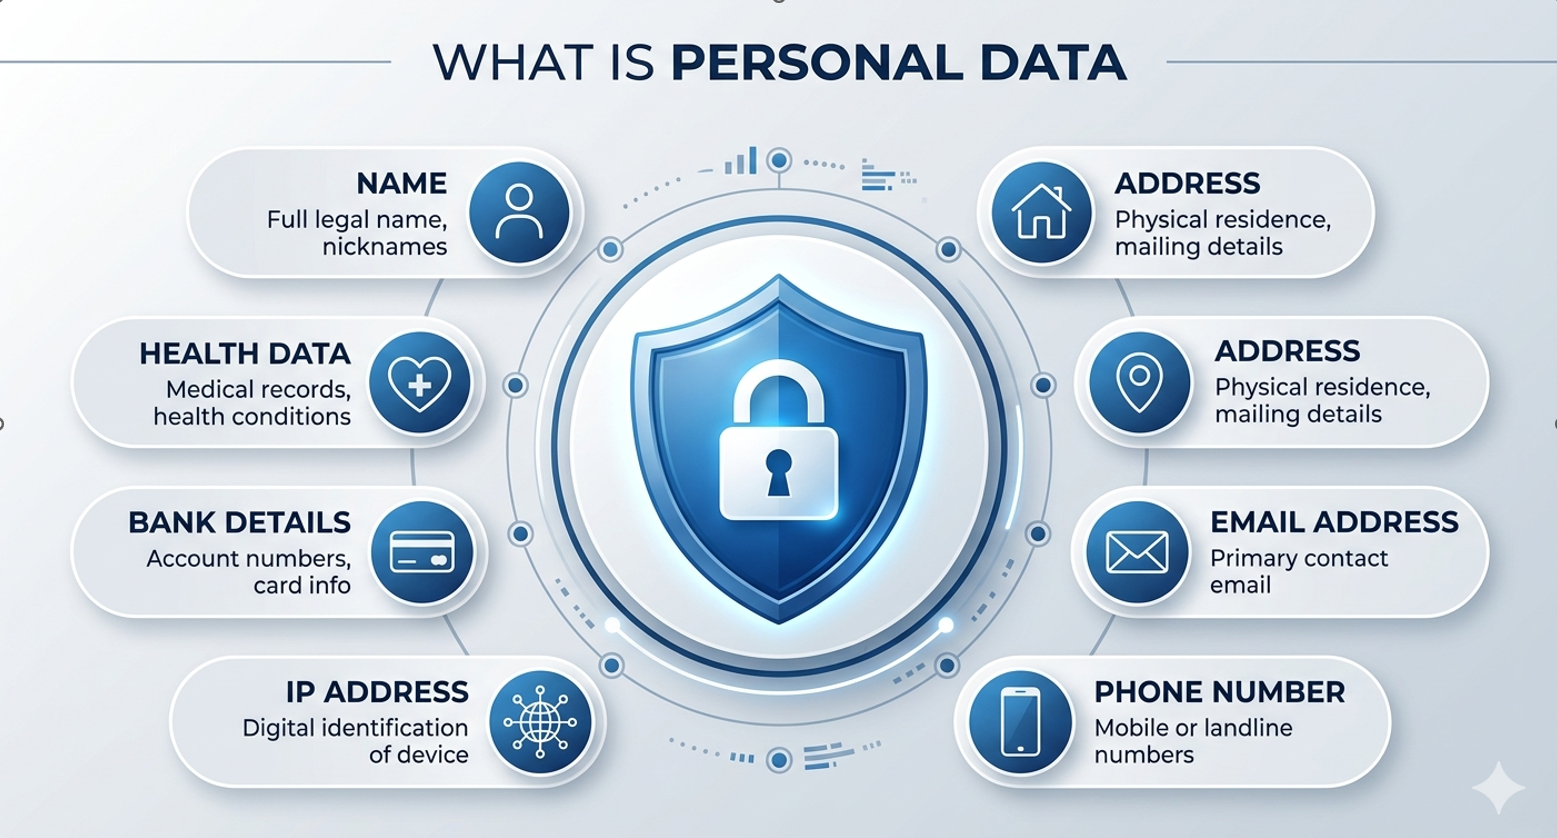
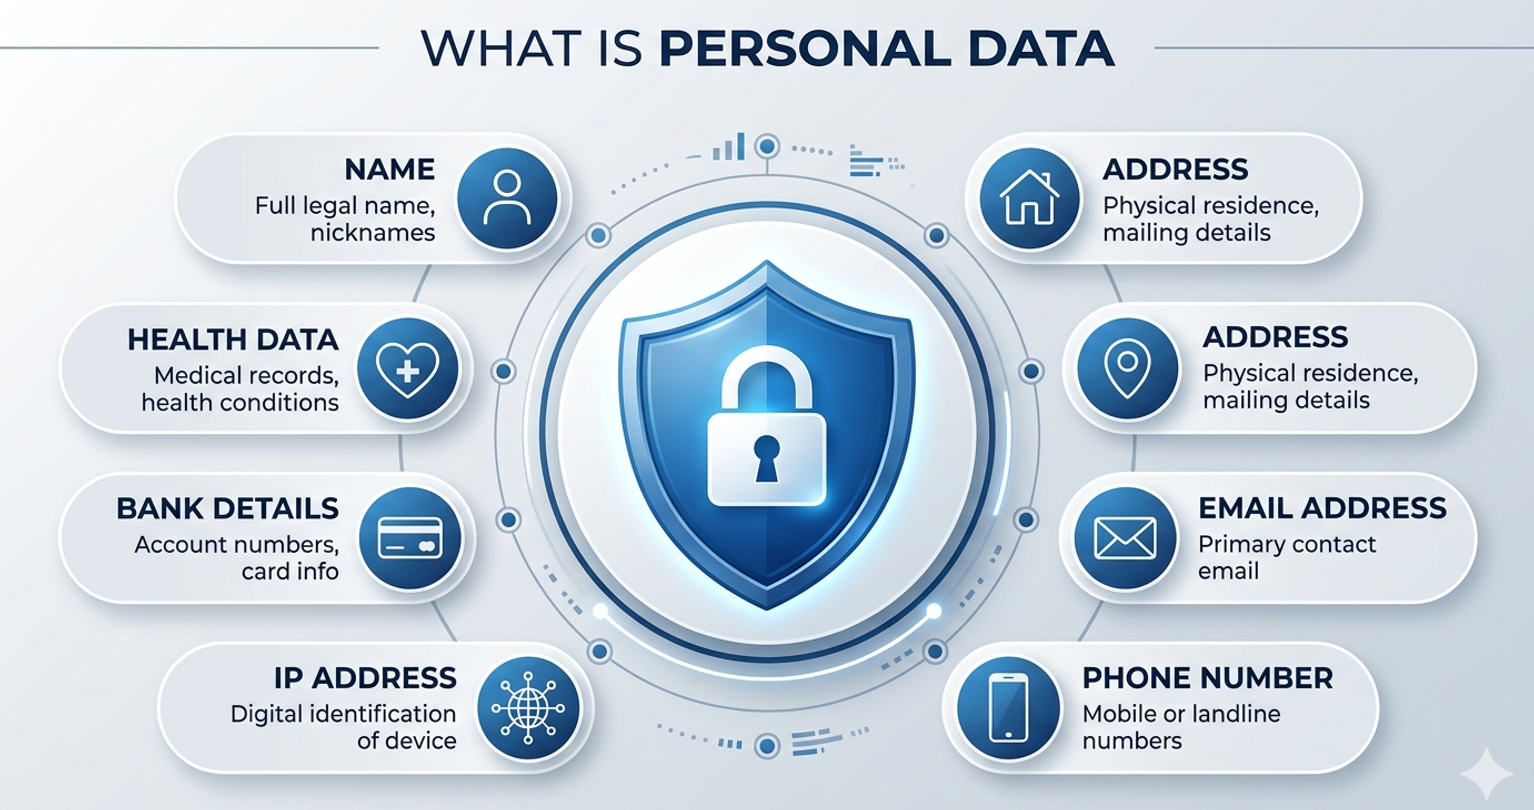
add images part 1

diff --git a/src/components/SlideRenderer.jsx b/src/components/SlideRenderer.jsx
@@ -34,59 +34,126 @@ function renderMarkup(text) {
   return { __html: text };
 }
 
-function renderSectionBody(section) {
+function renderSlideMedia(media) {
+  if (!media) return null;
+
+  if (media.images?.length) {
+    const galleryClass = `media-gallery media-gallery-${media.images.length >= 4 ? 'quad' : 'stack'}`;
+
+    return (
+      <aside className={`media-placeholder glass reveal ${galleryClass}`.trim()}>
+        {media.images.map((image, index) => (
+          <figure className="media-gallery-item" key={image.src || index}>
+            <img
+              src={image.src}
+              alt={image.alt || image.title || `Slide image ${index + 1}`}
+              className="media-image media-gallery-image"
+            />
+            {image.title || image.caption ? (
+              <figcaption className="media-gallery-caption">
+                {image.title ? <strong>{image.title}</strong> : null}
+                {image.caption ? <span>{image.caption}</span> : null}
+              </figcaption>
+            ) : null}
+          </figure>
+        ))}
+      </aside>
+    );
+  }
+
   return (
-    <div className="section-body">
-      {section.paragraphs?.map((paragraph) => (
-        <p key={paragraph}>{paragraph}</p>
-      ))}
-
-      {section.bullets?.length ? (
-        <ul className="check-list compact">
-          {section.bullets.map((item) => (
-            <li key={item}>{item}</li>
-          ))}
-        </ul>
-      ) : null}
-
-      {section.cards?.length ? (
-        <div className="mini-grid">
-          {section.cards.map((card) => (
-            <article className="mini-card glass" key={card.title}>
-              <h4>{card.title}</h4>
-              <p>{card.text}</p>
-            </article>
-          ))}
+    <aside
+      className={`media-placeholder glass reveal${media.image ? ` media-size-${media.size || 'full'}` : ''}`}
+    >
+      {media.image ? (
+        <img
+          src={media.image}
+          alt={media.title || 'Slide image'}
+          className={`media-image media-${media.size || 'full'}`}
+        />
+      ) : (
+        <div className="media-icon" aria-hidden="true">
+          IMG
         </div>
-      ) : null}
+      )}
+      {!media.image && (
+        <>
+          <span className="media-eyebrow">{media.eyebrow}</span>
+          <h3>{media.title}</h3>
+          <p>{media.caption}</p>
+        </>
+      )}
+    </aside>
+  );
+}
 
-      {section.comparison?.length ? (
-        <div className="comparison comparison-inline">
-          {section.comparison.map((item) => (
-            <article className="panel glass" key={item.title}>
-              <h4>{item.title}</h4>
-              <p>{item.text}</p>
-            </article>
-          ))}
-        </div>
-      ) : null}
+function renderSectionBody(section) {
+  const hasSectionMedia = Boolean(section.media?.image);
 
-      {section.columns?.length ? (
-        <div className="dual-list-grid">
-          {section.columns.map((column) => (
-            <article className="mini-card glass" key={column.title}>
-              <h4>{column.title}</h4>
-              <ul className="check-list compact">
-                {column.items.map((item) => (
-                  <li key={item}>{item}</li>
-                ))}
-              </ul>
-            </article>
-          ))}
-        </div>
-      ) : null}
+  return (
+    <div className={`section-body${hasSectionMedia ? ' section-body-with-media' : ''}`}>
+      <div className="section-copy">
+        {section.paragraphs?.map((paragraph) => (
+          <p key={paragraph}>{paragraph}</p>
+        ))}
 
-      {section.note ? <div className="section-note">{section.note}</div> : null}
+        {section.bullets?.length ? (
+          <ul className="check-list compact">
+            {section.bullets.map((item) => (
+              <li key={item}>{item}</li>
+            ))}
+          </ul>
+        ) : null}
+
+        {section.cards?.length ? (
+          <div className="mini-grid">
+            {section.cards.map((card) => (
+              <article className="mini-card glass" key={card.title}>
+                <h4>{card.title}</h4>
+                <p>{card.text}</p>
+              </article>
+            ))}
+          </div>
+        ) : null}
+
+        {section.comparison?.length ? (
+          <div className="comparison comparison-inline">
+            {section.comparison.map((item) => (
+              <article className="panel glass" key={item.title}>
+                <h4>{item.title}</h4>
+                <p>{item.text}</p>
+              </article>
+            ))}
+          </div>
+        ) : null}
+
+        {section.columns?.length ? (
+          <div className="dual-list-grid">
+            {section.columns.map((column) => (
+              <article className="mini-card glass" key={column.title}>
+                <h4>{column.title}</h4>
+                <ul className="check-list compact">
+                  {column.items.map((item) => (
+                    <li key={item}>{item}</li>
+                  ))}
+                </ul>
+              </article>
+            ))}
+          </div>
+        ) : null}
+
+        {section.note ? <div className="section-note">{section.note}</div> : null}
+      </div>
+
+      {hasSectionMedia ? (
+        <aside className="section-side-media">
+          <img
+            src={section.media.image}
+            alt={section.media.alt || section.title}
+            className="media-image section-media-image"
+          />
+        </aside>
+      ) : null}
     </div>
   );
 }
@@ -153,32 +220,7 @@ export default function SlideRenderer({
           {slide.type === 'content' && (
             <>
               <div className="content-top-grid">
-                {slide.media ? (
-                  <aside
-                    className={`media-placeholder glass reveal${slide.media.image ? ` media-size-${slide.media.size || 'full'}` : ''}`}
-                  >
-                    {slide.media.image ? (
-                      <img
-                        src={slide.media.image}
-                        alt={slide.media.title || 'Slide image'}
-                        className={`media-image media-${slide.media.size || 'full'}`}
-                      />
-                    ) : (
-                      <div className="media-icon" aria-hidden="true">
-                        IMG
-                      </div>
-                    )}
-                    {!slide.media.image && (
-                      <>
-                        <span className="media-eyebrow">
-                          {slide.media.eyebrow}
-                        </span>
-                        <h3>{slide.media.title}</h3>
-                        <p>{slide.media.caption}</p>
-                      </>
-                    )}
-                  </aside>
-                ) : null}
+                {renderSlideMedia(slide.media)}
               </div>
 
               <div className="content-accordion reveal">
@@ -339,6 +381,10 @@ const sectionShape = PropTypes.shape({
       items: PropTypes.arrayOf(PropTypes.string).isRequired,
     })
   ),
+  media: PropTypes.shape({
+    image: PropTypes.string.isRequired,
+    alt: PropTypes.string,
+  }),
 });
 
 SlideRenderer.propTypes = {
@@ -359,6 +405,14 @@ SlideRenderer.propTypes = {
       title: PropTypes.string,
       caption: PropTypes.string,
       image: PropTypes.string,
+      images: PropTypes.arrayOf(
+        PropTypes.shape({
+          src: PropTypes.string.isRequired,
+          alt: PropTypes.string,
+          title: PropTypes.string,
+          caption: PropTypes.string,
+        })
+      ),
       size: PropTypes.oneOf(['full', 'half', 'two-thirds', 'quarter', 'icon']),
     }),
     questions: PropTypes.array,

diff --git a/src/styles.css b/src/styles.css
@@ -729,6 +729,27 @@ body.light .sidebar-toggle {
   gap: 16px;
 }
 
+.section-body-with-media {
+  grid-template-columns: minmax(0, 3fr) minmax(180px, 1fr);
+  align-items: start;
+}
+
+.section-copy {
+  display: grid;
+  gap: 16px;
+  min-width: 0;
+}
+
+.section-side-media {
+  width: 100%;
+}
+
+.section-media-image {
+  width: 100%;
+  height: auto;
+  aspect-ratio: 1 / 1;
+}
+
 .section-body h4,
 .panel h3,
 .mini-card h4,
@@ -986,6 +1007,20 @@ body.light .sidebar-toggle {
 @media (max-width: 1200px) {
   .content-top-grid {
     grid-template-columns: 1fr;
+  }
+}
+
+@media (max-width: 900px) {
+  .section-body-with-media {
+    grid-template-columns: 1fr;
+  }
+
+  .section-side-media {
+    order: -1;
+  }
+
+  .section-media-image {
+    max-width: min(100%, 320px);
   }
 }
 
